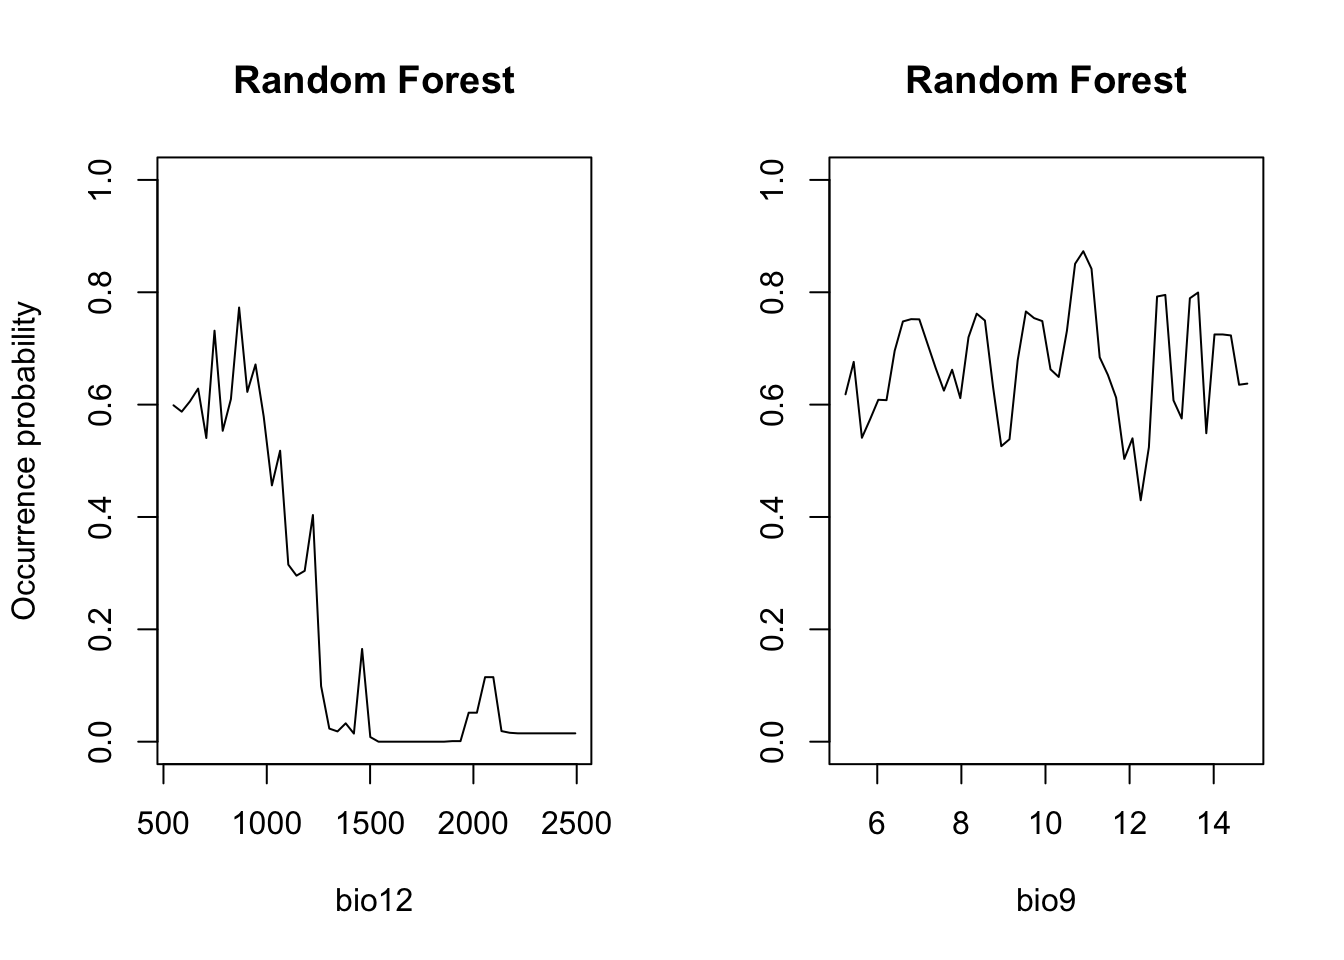
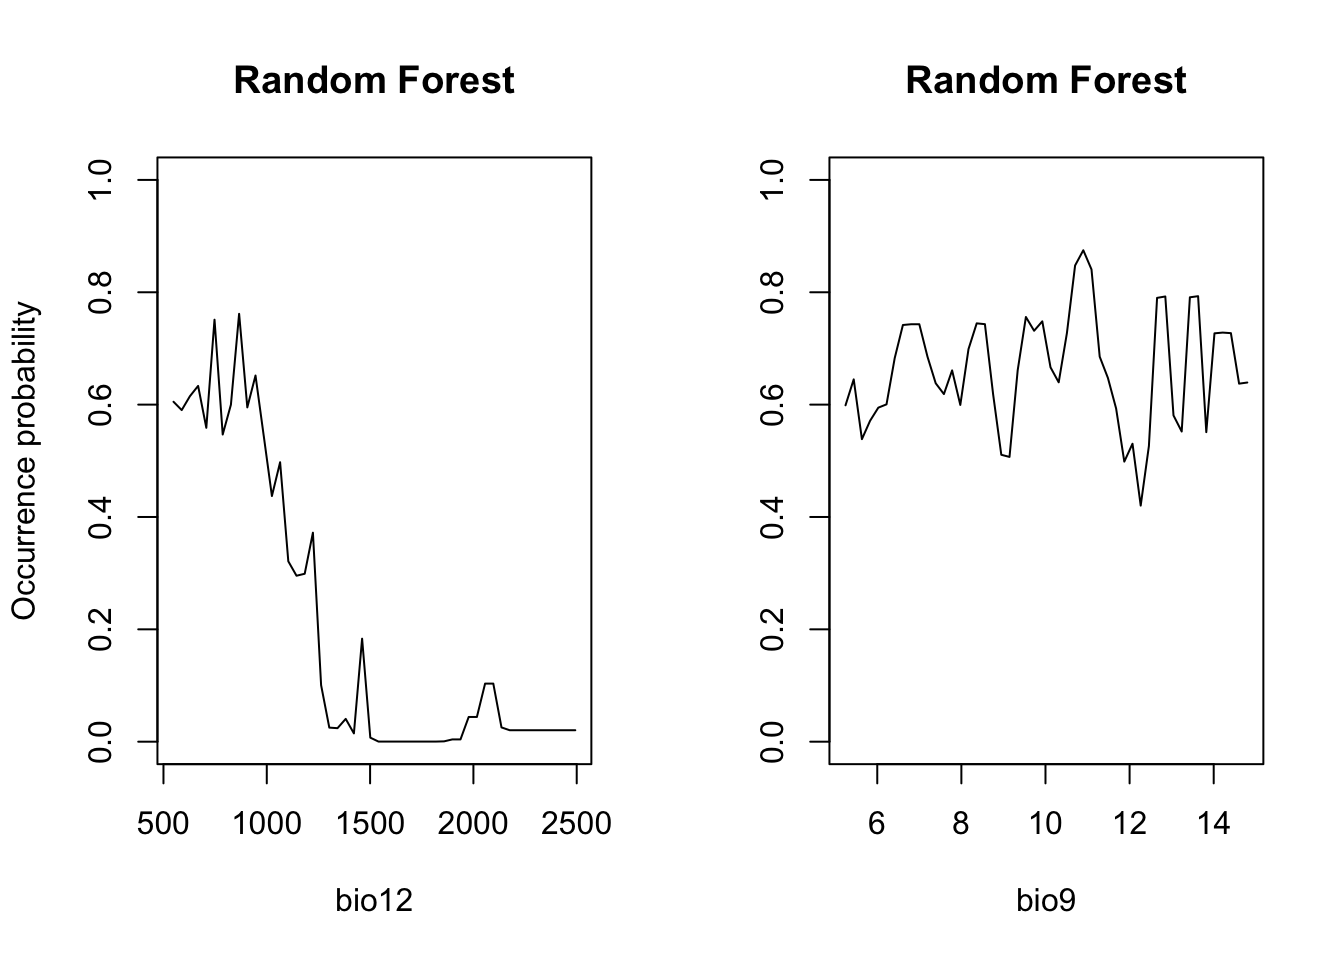
update bioclim

diff --git a/b6_SDM_algorithms.html b/b6_SDM_algorithms.html
@@ -13,7 +13,7 @@
 
 <title>SDM algorithms</title>
 
-<script src="site_libs/header-attrs-2.26/header-attrs.js"></script>
+<script src="site_libs/header-attrs-2.29/header-attrs.js"></script>
 <script src="site_libs/jquery-3.6.0/jquery-3.6.0.min.js"></script>
 <meta name="viewport" content="width=device-width, initial-scale=1" />
 <link href="site_libs/bootstrap-3.3.5/css/bootstrap.min.css" rel="stylesheet" />
@@ -605,10 +605,10 @@ corresponding partial response plots. The <code>predicts</code> package
 offers a function <code>partialResponse()</code> to calculate the
 partial response.</p>
 <pre class="r"><code># Plot partial response curves:
-par(mfrow=c(1,2)) 
-plot(partialResponse(m_bc, var=1,nsteps=50),type=&#39;l&#39;, main=&#39;BIOCLIM&#39;, ylab=&#39;Occurrence probability&#39;, xlab=my_preds[1], ylim=c(0,1))
-plot(partialResponse(m_bc, var=2,nsteps=50),type=&#39;l&#39;, main=&#39;BIOCLIM&#39;, ylab=&#39;Occurrence probability&#39;, xlab=my_preds[2], ylim=c(0,1))</code></pre>
+partialResponse(m_bc, var=1, nsteps=50)</code></pre>
 <p><img src="b6_SDM_algorithms_files/figure-html/unnamed-chunk-8-1.png" width="672" /></p>
+<pre class="r"><code>partialResponse(m_bc, var=2, nsteps=50)</code></pre>
+<p><img src="b6_SDM_algorithms_files/figure-html/unnamed-chunk-8-2.png" width="672" /></p>
 <p>Last, we validate model performance on the hold-out test data.</p>
 <pre class="r"><code># We use the default MaxSens+Spec threshold:
 (perf_bc &lt;- evalSDM(sp_test$Emberiza_citrinella, predict(m_bc, sp_test[,my_preds])))</code></pre>
@@ -861,19 +861,19 @@ m_rf &lt;- randomForest( x=sp_train[,my_preds], y=sp_train$Emberiza_citrinella,
 # Variable importance:
 importance(m_rf,type=1)</code></pre>
 <pre><code>##        %IncMSE
-## bio12 71.11887
-## bio9  15.49371</code></pre>
+## bio12 71.91932
+## bio9  14.32720</code></pre>
 <pre class="r"><code>varImpPlot(m_rf)</code></pre>
 <p><img src="b6_SDM_algorithms_files/figure-html/unnamed-chunk-14-1.png" width="672" /></p>
 <pre class="r"><code># Look at single trees:
 head(getTree(m_rf,1,T))</code></pre>
 <pre><code>##   left daughter right daughter split var split point status prediction
-## 1             2              3     bio12 1065.103210     -3 0.56398104
-## 2             4              5     bio12  568.039551     -3 0.83458647
-## 3             6              7      bio9   12.342194     -3 0.10256410
-## 4             8              9      bio9    6.123576     -3 0.42857143
-## 5            10             11      bio9    7.524390     -3 0.85714286
-## 6            12             13      bio9    8.596580     -3 0.08333333</code></pre>
+## 1             2              3     bio12  875.805450     -3 0.52132701
+## 2             4              5     bio12  814.995850     -3 0.82692308
+## 3             6              7      bio9    9.851603     -3 0.22429907
+## 4             8              9     bio12  708.464630     -3 0.85393258
+## 5            10             11     bio12  827.776489     -3 0.66666667
+## 6            12             13      bio9    8.726742     -3 0.09090909</code></pre>
 <pre class="r"><code># Now, we plot the response surface:
 xyz$z &lt;- predict(m_rf, xyz, type=&#39;response&#39;)
 wireframe(z ~ bio12 + bio9, data = xyz, zlab = list(&quot;Occurrence prob.&quot;, rot=90), 
@@ -887,8 +887,8 @@ partial_response(m_rf, predictors = sp_train[,my_preds], main=&#39;Random Forest
 <p><img src="b6_SDM_algorithms_files/figure-html/unnamed-chunk-14-3.png" width="672" /></p>
 <pre class="r"><code># Performance measures of RF
 (perf_rf &lt;- evalSDM(sp_test$Emberiza_citrinella, predict(m_rf, sp_test[,my_preds],  type=&#39;response&#39;) ))</code></pre>
-<pre><code>##         AUC       TSS     Kappa      Sens      Spec       PCC        D2 thresh
-## 1 0.8343254 0.6428571 0.6428571 0.8095238 0.8333333 0.8222222 0.1757222   0.62</code></pre>
+<pre><code>##         AUC       TSS     Kappa      Sens   Spec       PCC        D2 thresh
+## 1 0.8298611 0.6220238 0.6210996 0.8095238 0.8125 0.8111111 0.1915055   0.61</code></pre>
 <pre class="r"><code># Map predictions:
 r_rf_bin &lt;- r_rf_pred &lt;- terra::rast(cbind(bio_curr_df[,1:2],
                                  predict(m_rf, bio_curr_df,type=&#39;response&#39;)),
@@ -969,16 +969,16 @@ m_brt &lt;- gbm.step(data = sp_train,
 <pre class="r"><code># Variable importance:
 m_brt$contributions</code></pre>
 <pre><code>##         var   rel.inf
-## bio12 bio12 93.369436
-## bio9   bio9  6.630564</code></pre>
+## bio12 bio12 93.506567
+## bio9   bio9  6.493433</code></pre>
 <pre class="r"><code># Interactions (not very meaningful here with only 2 predictors):
 gbm.interactions(m_brt)$interactions</code></pre>
 <pre><code>##       bio12  bio9
-## bio12     0 24.08
+## bio12     0 24.24
 ## bio9      0  0.00</code></pre>
 <pre class="r"><code>gbm.interactions(m_brt)$rank.list</code></pre>
 <pre><code>##   var1.index var1.names var2.index var2.names int.size
-## 1          2       bio9          1      bio12    24.08
+## 1          2       bio9          1      bio12    24.24
 ## 2          3       &lt;NA&gt;          0                0.00</code></pre>
 <pre class="r"><code># dismo provides some build-in functions for plotting response:
 gbm.plot(m_brt, n.plots=2, write.title = FALSE)</code></pre>
@@ -998,8 +998,8 @@ partial_response(m_brt, predictors = sp_train[,my_preds], main=&#39;BRT&#39;, yl
 <p><img src="b6_SDM_algorithms_files/figure-html/unnamed-chunk-15-5.png" width="672" /></p>
 <pre class="r"><code># Performance measures of BRT
 (perf_brt &lt;- evalSDM(sp_test$Emberiza_citrinella, predict.gbm(m_brt, sp_test[,my_preds], n.trees=m_brt$gbm.call$best.trees, type=&#39;response&#39;) ))</code></pre>
-<pre><code>##         AUC       TSS     Kappa      Sens      Spec       PCC        D2 thresh
-## 1 0.8831845 0.7380952 0.7337278 0.9047619 0.8333333 0.8666667 0.3442508    0.6</code></pre>
+<pre><code>##         AUC       TSS     Kappa      Sens   Spec       PCC        D2 thresh
+## 1 0.8812004 0.7172619 0.7119645 0.9047619 0.8125 0.8555556 0.3428637  0.585</code></pre>
 <pre class="r"><code># Map predictions:
 r_brt_bin &lt;- r_brt_pred &lt;- terra::rast(cbind(bio_curr_df[,1:2],
                                   predict.gbm(m_brt, bio_curr_df,
@@ -1122,16 +1122,16 @@ ensembles in the next tutorial.</p>
 ## glm    0.8903770 0.7172619 0.7119645 0.9047619 0.8125000 0.8555556  0.3702978
 ## gam    0.8859127 0.7172619 0.7119645 0.9047619 0.8125000 0.8555556  0.3654815
 ## cart   0.8196925 0.5922619 0.5958084 0.7380952 0.8541667 0.8000000  0.1693440
-## rf     0.8343254 0.6428571 0.6428571 0.8095238 0.8333333 0.8222222  0.1757222
-## brt    0.8831845 0.7380952 0.7337278 0.9047619 0.8333333 0.8666667  0.3442508
+## rf     0.8298611 0.6220238 0.6210996 0.8095238 0.8125000 0.8111111  0.1915055
+## brt    0.8812004 0.7172619 0.7119645 0.9047619 0.8125000 0.8555556  0.3428637
 ## maxent 0.8774802 0.7172619 0.7119645 0.9047619 0.8125000 0.8555556  0.2581671
 ##        thresh
 ## bc      0.175
 ## glm     0.525
 ## gam     0.530
 ## cart    0.800
-## rf      0.620
-## brt     0.600
+## rf      0.610
+## brt     0.585
 ## maxent  0.410</code></pre>
 <pre class="r"><code># We add a column containing the names of the algorithm
 comp_perf &lt;- data.frame(alg=row.names(comp_perf),comp_perf)

diff --git a/site_libs/header-attrs-2.29/header-attrs.js b/site_libs/header-attrs-2.29/header-attrs.js
@@ -1,0 +1,12 @@
+// Pandoc 2.9 adds attributes on both header and div. We remove the former (to
+// be compatible with the behavior of Pandoc < 2.8).
+document.addEventListener('DOMContentLoaded', function(e) {
+  var hs = document.querySelectorAll("div.section[class*='level'] > :first-child");
+  var i, h, a;
+  for (i = 0; i < hs.length; i++) {
+    h = hs[i];
+    if (!/^h[1-6]$/i.test(h.tagName)) continue;  // it should be a header h1-h6
+    a = h.attributes;
+    while (a.length > 0) h.removeAttribute(a[0].name);
+  }
+});
